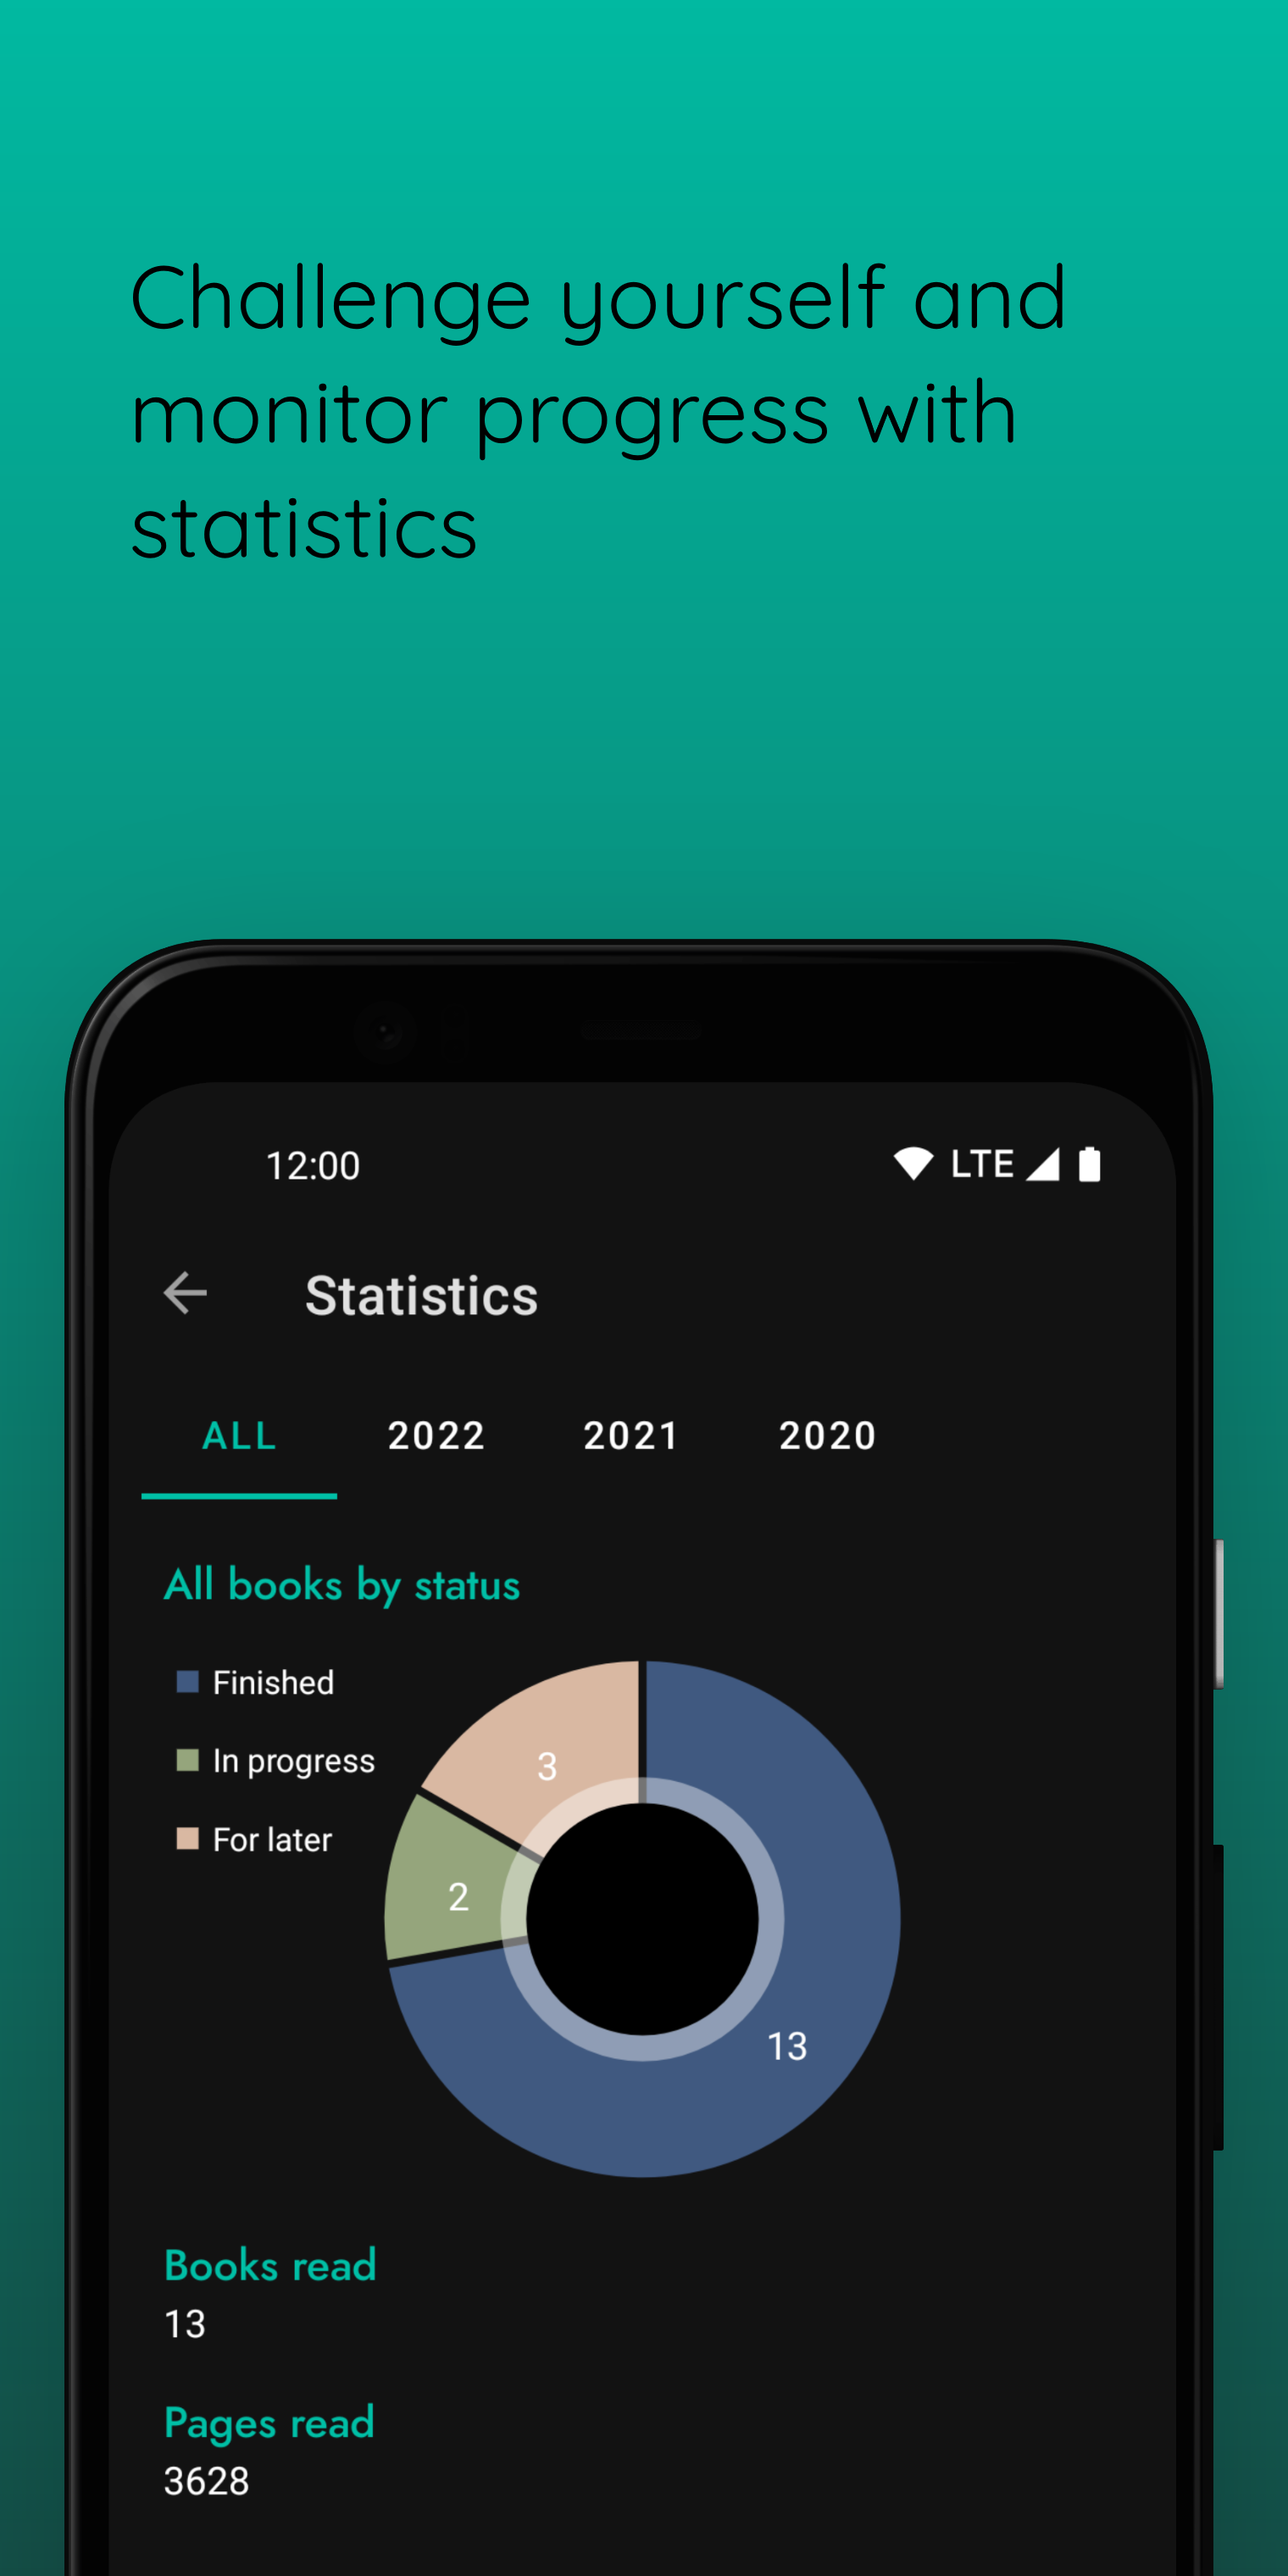
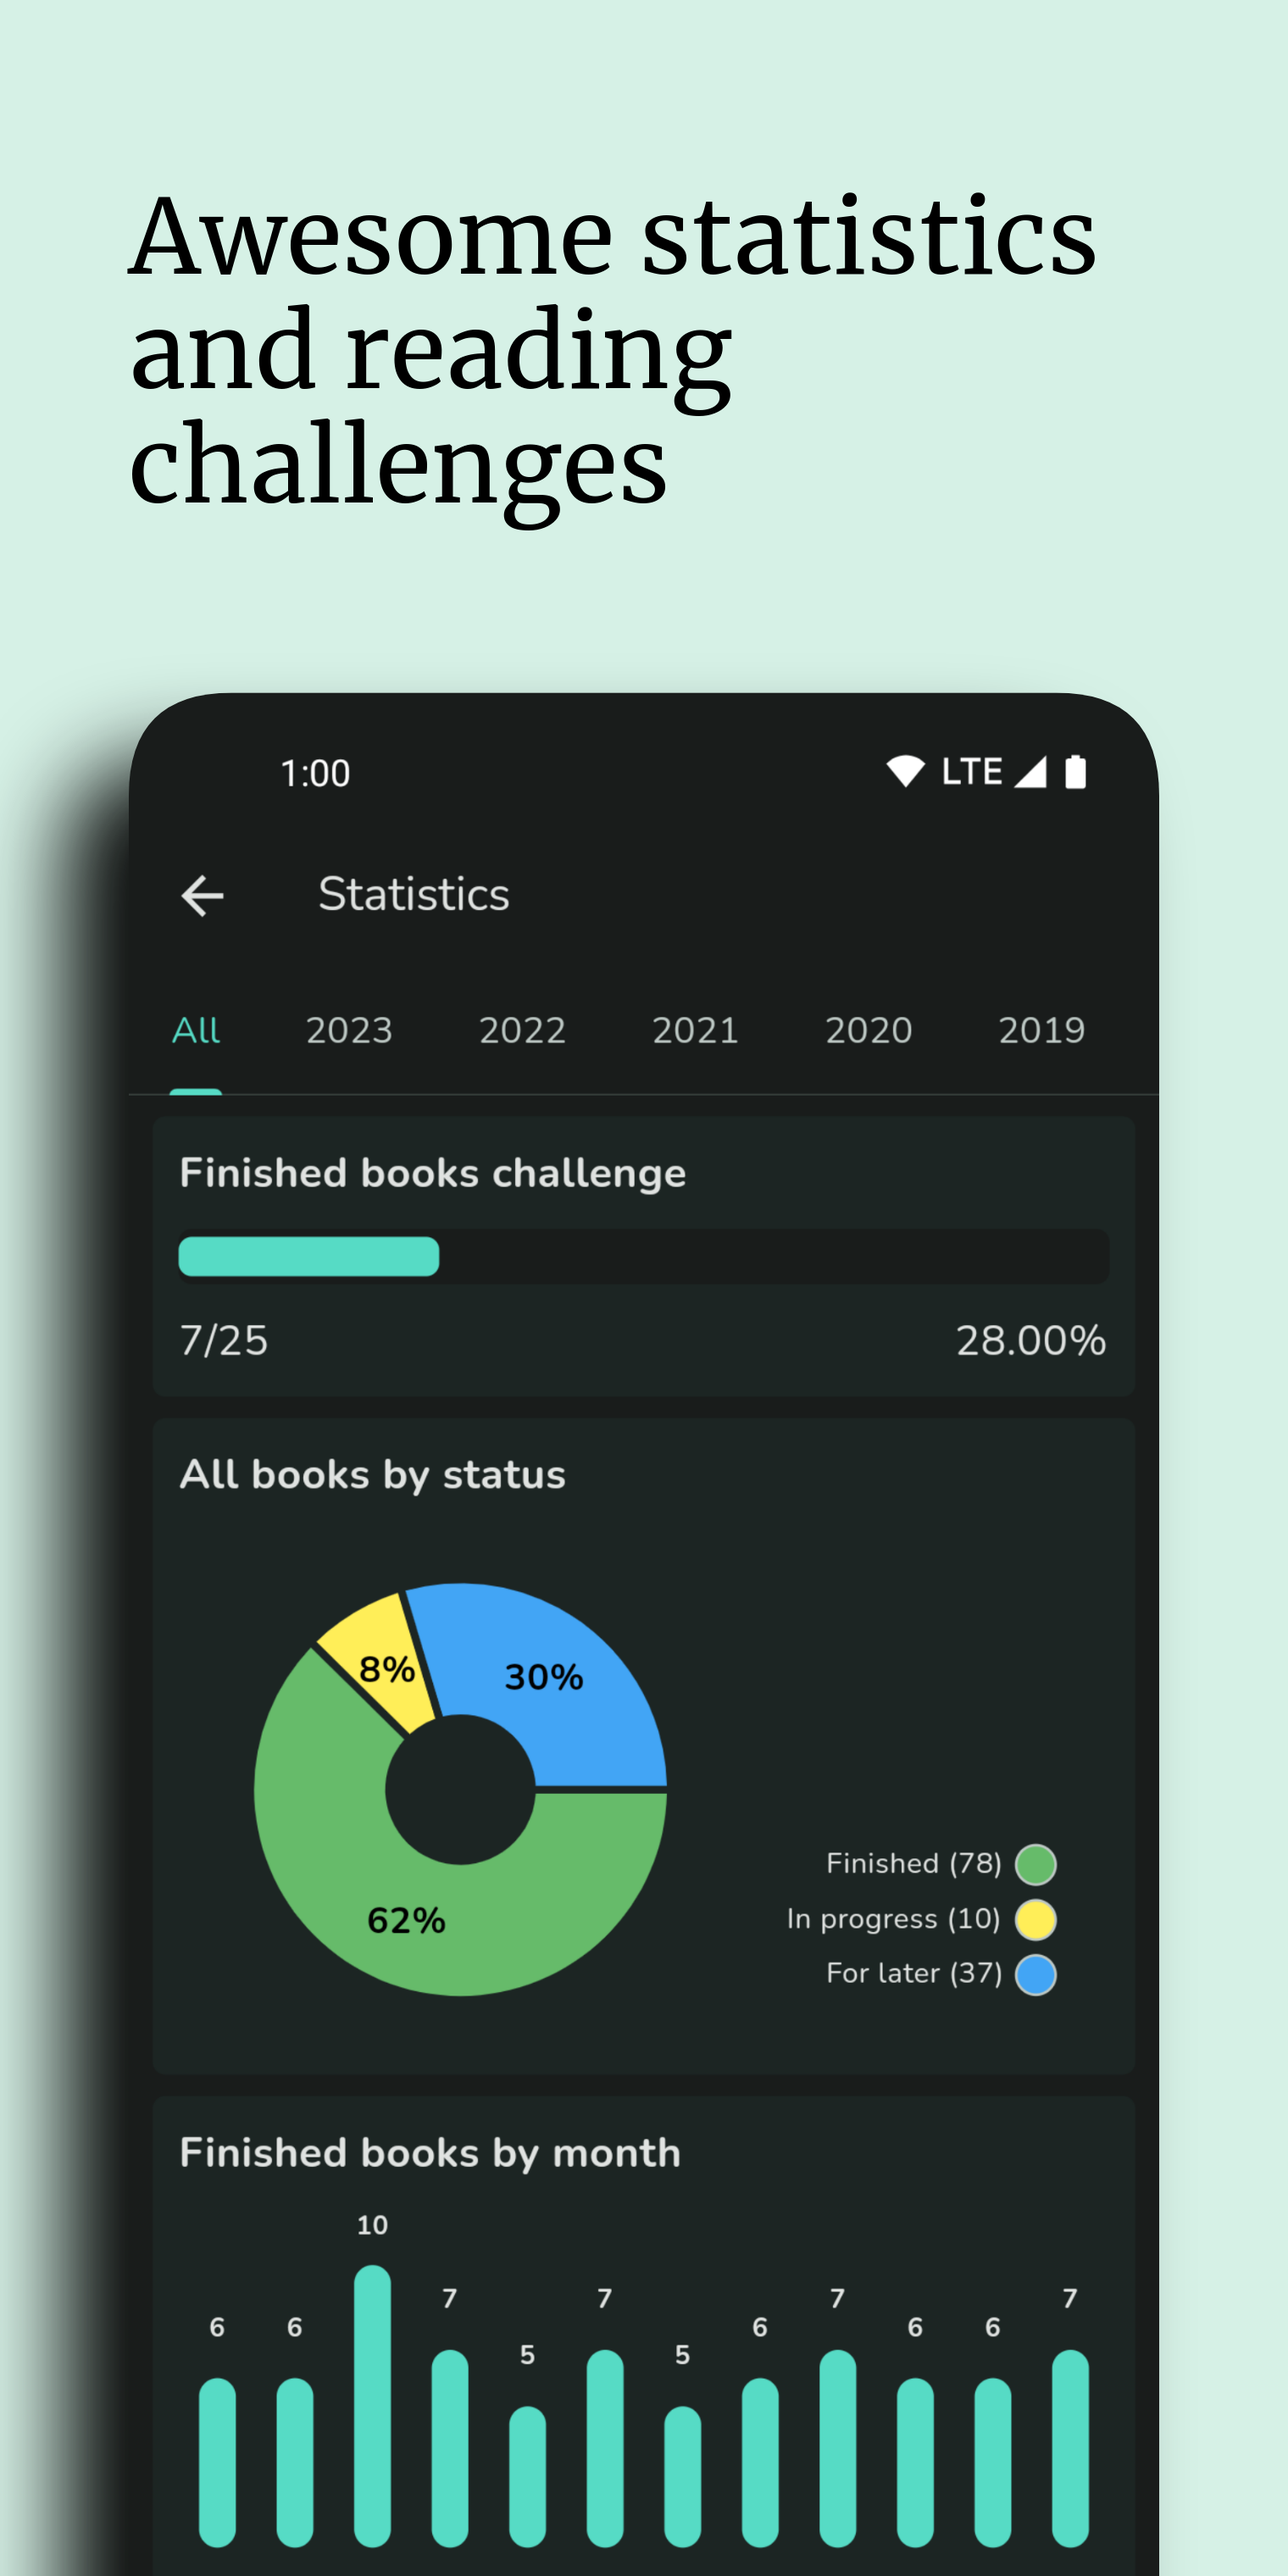
Build/f droid store update (#233)
docs: Changelog, images and readme.

diff --git a/README.md b/README.md
@@ -16,7 +16,6 @@
 <br/>
 <a href='https://matrix.to/#/#openreads:matrix.org'><img height=75 alt='Join the community on Element' src='https://raw.githubusercontent.com/mateusz-bak/openreads-android/master/doc/github/join_element.png'/></a>
 
-<br/>
 
 ### Openreads is a privacy oriented and open source Android app written in Kotlin for keeping tracks of your books.  
 #### There are four lists provided so you won't get confused:  
@@ -34,20 +33,16 @@ You can use custom tags and filter through them.
 
 ####  You can also view some cool statistics!  
 
-<br/><br/>
-### :construction: Currently feature development is stopped due to refactor work :construction:
-The app codebase is being migrated from Android Native (Kotlin) to Flutter (Dart).
-Main point for this is to enable iOS release with a single codebase.
-If you want to be involved in the process and help out with work, design or feedback you can join [Openreads Community on Matrix.org](https://matrix.to/#/#openreads:matrix.org).
-<br/><br/>
-## Screenshots  
-<p align='center'>  
- <img src='doc/github/screenshot-finished_n_framed.png' width='30%'/>  
- <img src='doc/github/screenshot-display-book_n_framed.png' width='30%'/>    
- <img src='doc/github/screenshot-statistics_n_framed.png' width='30%'/>
+<br/>
+
+<p align='left'>  
+ <img src='doc/gplay/app-mockup/Google Pixel 4 XL Screenshot 0.png' width='24%'/>  
+ <img src='doc/gplay/app-mockup/Google Pixel 4 XL Screenshot 1.png' width='24%'/>    
+ <img src='doc/gplay/app-mockup/Google Pixel 4 XL Screenshot 2.png' width='24%'/>
+ <img src='doc/gplay/app-mockup/Google Pixel 4 XL Screenshot 3.png' width='24%'/>
 </p>  
 
-<br/><br/>
+<br/>
 
 ## Contributing
 
@@ -56,20 +51,24 @@ Do you want to support Openreads development? You are welcome to take below acti
 ### Help translate Openreads:
 Go to [Crowdin project](https://crwd.in/openreads-android) and start translating!
 
-### Have you found a bug in Openreads?
+### Report bugs or new ideas
 Submit an issue here: [Openreads issues](https://github.com/mateusz-bak/openreads-android/issues).
 
-### Do you have an idea that could improve Openreads for everyone?
-Submit a feature request here: [Openreads issues](https://github.com/mateusz-bak/openreads-android/issues).
+### Become a Sponsor:
+[Become a Github Sponsor](https://github.com/sponsors/mateusz-bak)
 
-<br/><br/>
+[Buy a coffe at buymeacoffee.com](https://www.buymeacoffee.com/mateuszbak)
+
+<br/>
+
+## Attributions
+
+### Icons
+[Font Awesome](https://fontawesome.com/ "Font Awesome")
+
+<br/>
+
 ## Build Process
-
-### Dependencies
-
-- Android SDK
-
-### Build
 
 1. Clone or download this repository
 
@@ -78,34 +77,14 @@ Submit a feature request here: [Openreads issues](https://github.com/mateusz-bak
    cd openreads-android
    ```
 
-2. Open the project in Android Studio and run it from there or build an APK directly through Gradle:
+2. Download dependencies
 
    ```sh
-   ./gradlew assembleDebug
+   flutter pub get
    ```
 
-### Deploy to device/emulator
+2. Build and install the app on your device
 
    ```sh
-   ./gradlew installDebug
+   flutter run
    ```
-
-*You can also replace the "Debug" with "Release" to get an optimized release binary.*
-
-<br/><br/>
-## Attributions
-
-### Contributors
-
-#### Testing
-[Wiktor Młynarczyk](https://github.com/jokereey "jokereey")
-
-
-### Used APIs
-[Open Library](https://openlibrary.org/ "Open Library")
-
-
-### Icons and illustrations made by
-[Katerina Limpitsouni](https://undraw.co/illustrations "Katerina Limpitsouni")
-<br/>
-[Iconscout](https://iconscout.com/ "Iconscout")
